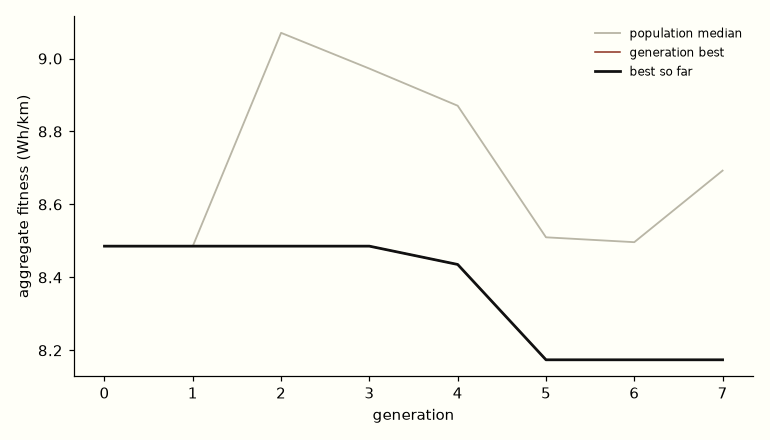
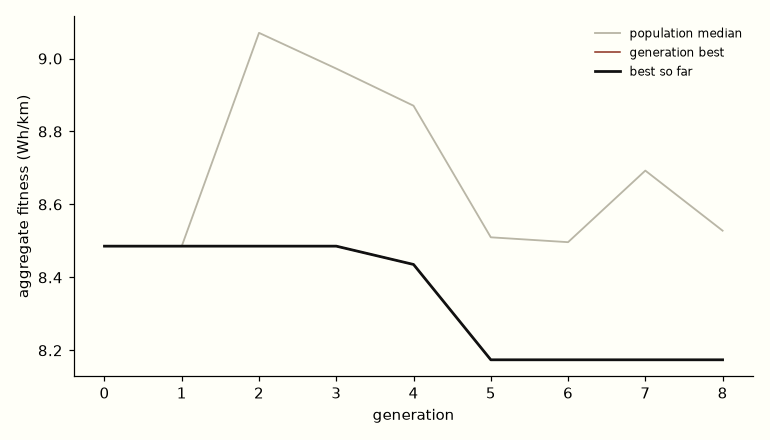
framevo run resumes the latest run by default (--fresh for a new one)
Auto-resume picks the newest run when its genome spec matches, updates the
generations target, and refuses politely when the target is already met.

diff --git a/src/framevo/cli.py b/src/framevo/cli.py
@@ -20,9 +20,33 @@ def cmd_run(args: argparse.Namespace) -> int:
                       generations=args.generations, seed=args.seed,
                       optimizer=args.optimizer, workers=args.workers,
                       results_dir=args.results)
+    from .dbstore import Store
     from .loop import EvolutionLoop
-    run_id = args.run_id or time.strftime("run_%Y%m%d_%H%M%S")
-    loop = EvolutionLoop(cfg, run_id, resume=args.resume)
+
+    # default behavior: pick up where the last run left off. A new run is
+    # started when --fresh is passed, no prior run exists, or the latest
+    # run's genomes predate the current genome spec.
+    store = Store(cfg.evolution.results_dir / "run.db")
+    run_id, resume = args.run_id, args.resume
+    if run_id is None and not args.fresh:
+        latest = store.latest_run_id()
+        if latest is not None:
+            done = store.get_run(latest)["generations_done"]
+            if not store.run_genome_compatible(latest):
+                print(f"latest run '{latest}' uses an older genome spec --"
+                      " starting a fresh run")
+            elif done >= cfg.evolution.generations:
+                print(f"latest run '{latest}' already has {done} generations"
+                      f" (>= --generations {cfg.evolution.generations});"
+                      " raise --generations to continue it or use --fresh")
+                return 0
+            else:
+                run_id, resume = latest, True
+    elif run_id is not None and store.get_run(run_id) is not None:
+        resume = True  # explicit --run-id of an existing run always resumes
+    store.close()
+    run_id = run_id or time.strftime("run_%Y%m%d_%H%M%S")
+    loop = EvolutionLoop(cfg, run_id, resume=resume)
     loop.run()
     lb = cfg.evolution.results_dir / "leaderboard.md"
     if lb.exists():
@@ -87,7 +111,9 @@ def main(argv: list[str] | None = None) -> int:
     p.add_argument("--workers", type=int, default=None)
     p.add_argument("--run-id", default=None)
     p.add_argument("--resume", action="store_true",
-                   help="continue an interrupted run (same --run-id)")
+                   help="(default behavior) continue the latest/named run")
+    p.add_argument("--fresh", action="store_true",
+                   help="force a brand-new run instead of resuming the latest")
     p.set_defaults(fn=cmd_run)
 
     p = sub.add_parser("lineage", help="print a candidate's ancestor chain")

diff --git a/src/framevo/dbstore.py b/src/framevo/dbstore.py
@@ -161,10 +161,27 @@ class Store:
         return self.conn.execute("SELECT * FROM runs WHERE run_id=?",
                                  (run_id,)).fetchone()
 
+    def run_genome_compatible(self, run_id: str) -> bool:
+        """True if the run's stored genomes use the current gene set (a
+        genome-spec change makes old runs non-resumable)."""
+        from .genome import GENE_NAMES
+        row = self.conn.execute(
+            "SELECT genome_json FROM candidates WHERE run_id=? LIMIT 1",
+            (run_id,)).fetchone()
+        if row is None:
+            return True
+        return set(json.loads(row["genome_json"]).keys()) == set(GENE_NAMES)
+
     def latest_run_id(self) -> str | None:
         row = self.conn.execute(
             "SELECT run_id FROM runs ORDER BY created_utc DESC LIMIT 1").fetchone()
         return row["run_id"] if row else None
+
+    def update_generations_target(self, run_id: str, generations: int) -> None:
+        self.conn.execute(
+            "UPDATE runs SET generations_target=?, status='running'"
+            " WHERE run_id=?", (generations, run_id))
+        self.conn.commit()
 
     def mark_generation_done(self, run_id: str, generation: int) -> None:
         self.conn.execute(

diff --git a/src/framevo/loop.py b/src/framevo/loop.py
@@ -60,7 +60,9 @@ class EvolutionLoop:
         elif resume:
             done = self.store.generations_with_population(run_id)
             self.start_gen = (max(done) + 1) if done else 0
-            _log(f"resuming run '{run_id}' at generation {self.start_gen}")
+            self.store.update_generations_target(run_id, ev.generations)
+            _log(f"resuming run '{run_id}' at generation {self.start_gen}"
+                 f" (target {ev.generations})")
         else:
             raise SystemExit(
                 f"run '{run_id}' already exists in {self.results / 'run.db'};"

diff --git a/results/leaderboard.md b/results/leaderboard.md
@@ -3,12 +3,12 @@
 | rank | hash | gen | operator | material | frame g | agg Wh/km | mean | worst | calm_warm | cold_headwind | storm | crosswind | gusty_light | hot_thin |
 |---|---|---|---|---|---|---|---|---|---|---|---|---|---|---|
 | 1 | `1b1c9ac18a27` | 5 | crossover | pa12_cf | 100.5 | 8.174 | 4.954 | 6.440 | 3.452 | 6.440 | 6.388 | 5.159 | 4.600 | 3.685 |
-| 2 | `4fc3e4d79b29` | 7 | mutation | pa12_cf | 105.1 | 8.316 | 5.034 | 6.564 | 3.488 | 6.564 | 6.504 | 5.250 | 4.674 | 3.725 |
-| 3 | `e4894632243d` | 6 | crossover | pa12_cf | 113.2 | 8.411 | 5.101 | 6.620 | 3.539 | 6.620 | 6.576 | 5.355 | 4.744 | 3.775 |
-| 4 | `1fcf9f392a3c` | 6 | crossover | pa12_cf | 110.4 | 8.425 | 5.105 | 6.640 | 3.541 | 6.640 | 6.585 | 5.350 | 4.744 | 3.769 |
-| 5 | `01b9e30a9724` | 5 | crossover | pa12_cf | 114.5 | 8.431 | 5.115 | 6.632 | 3.552 | 6.632 | 6.591 | 5.375 | 4.755 | 3.784 |
-| 6 | `b097e658bfa6` | 4 | crossover | cf_plate | 134.4 | 8.435 | 5.134 | 6.603 | 3.637 | 6.594 | 6.603 | 5.316 | 4.773 | 3.879 |
-| 7 | `964da1bb8e06` | 6 | crossover | cf_plate | 145.3 | 8.460 | 5.155 | 6.610 | 3.692 | 6.543 | 6.610 | 5.348 | 4.802 | 3.938 |
-| 8 | `baac55fb3837` | 0 | seed | cf_plate | 144.3 | 8.486 | 5.165 | 6.642 | 3.666 | 6.616 | 6.642 | 5.350 | 4.798 | 3.917 |
-| 9 | `3077e8b94f35` | 6 | crossover | pa12_cf | 116.6 | 8.496 | 5.150 | 6.693 | 3.569 | 6.693 | 6.639 | 5.412 | 4.787 | 3.801 |
-| 10 | `d98a87021770` | 5 | crossover | cf_plate | 144.3 | 8.506 | 5.179 | 6.653 | 3.691 | 6.611 | 6.653 | 5.365 | 4.817 | 3.937 |
+| 2 | `d192c8219bcd` | 8 | crossover | pa12_cf | 101.9 | 8.261 | 5.001 | 6.519 | 3.474 | 6.519 | 6.459 | 5.208 | 4.642 | 3.707 |
+| 3 | `4e54b643adfe` | 8 | crossover | pa12_cf | 107.0 | 8.310 | 5.032 | 6.555 | 3.494 | 6.555 | 6.496 | 5.248 | 4.669 | 3.731 |
+| 4 | `4fc3e4d79b29` | 7 | mutation | pa12_cf | 105.1 | 8.316 | 5.034 | 6.564 | 3.488 | 6.564 | 6.504 | 5.250 | 4.674 | 3.725 |
+| 5 | `3a48eb8fcb6c` | 8 | mutation | pa12_cf | 110.3 | 8.340 | 5.059 | 6.562 | 3.526 | 6.562 | 6.521 | 5.285 | 4.702 | 3.759 |
+| 6 | `e4894632243d` | 6 | crossover | pa12_cf | 113.2 | 8.411 | 5.101 | 6.620 | 3.539 | 6.620 | 6.576 | 5.355 | 4.744 | 3.775 |
+| 7 | `1fcf9f392a3c` | 6 | crossover | pa12_cf | 110.4 | 8.425 | 5.105 | 6.640 | 3.541 | 6.640 | 6.585 | 5.350 | 4.744 | 3.769 |
+| 8 | `01b9e30a9724` | 5 | crossover | pa12_cf | 114.5 | 8.431 | 5.115 | 6.632 | 3.552 | 6.632 | 6.591 | 5.375 | 4.755 | 3.784 |
+| 9 | `b097e658bfa6` | 4 | crossover | cf_plate | 134.4 | 8.435 | 5.134 | 6.603 | 3.637 | 6.594 | 6.603 | 5.316 | 4.773 | 3.879 |
+| 10 | `964da1bb8e06` | 6 | crossover | cf_plate | 145.3 | 8.460 | 5.155 | 6.610 | 3.692 | 6.543 | 6.610 | 5.348 | 4.802 | 3.938 |

diff --git a/README.md b/README.md
@@ -10,8 +10,9 @@ it ever evaluated.
 ```
 make demo        # 3 generations x population 8, ~2-4 min on 8 cores
 make test        # pytest suite
-.venv/bin/framevo run --generations 40             # a real run
-.venv/bin/framevo run --run-id myrun --resume      # continue after a crash
+.venv/bin/framevo run --generations 100            # starts, or RESUMES the
+                                                   #  latest run by default
+.venv/bin/framevo run --generations 100 --fresh    # force a brand-new run
 .venv/bin/framevo lineage <genome_hash>            # ancestor chain w/ fitness
 .venv/bin/framevo gallery                          # rebuild artifacts from db
 ```